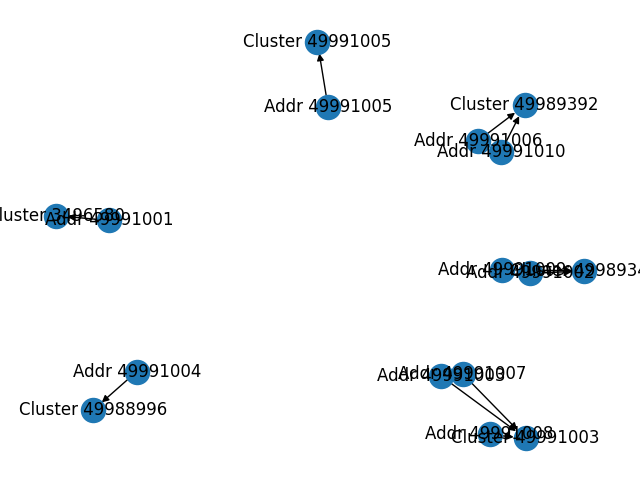
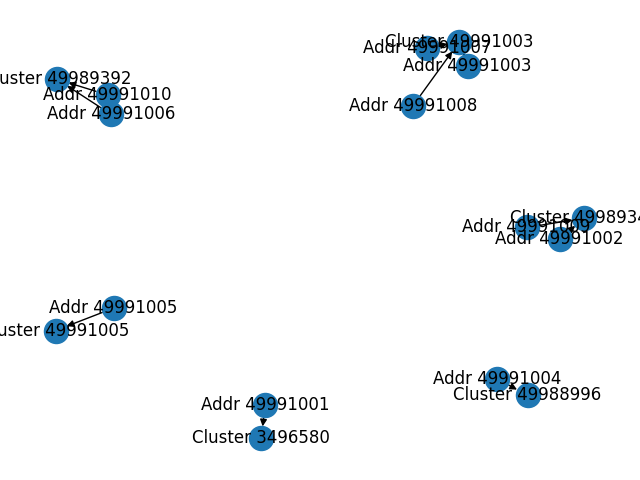
Addr -> Cluster 그래프 구축

diff --git a/sqllite/addrToCluster_dirGraph.py b/sqllite/addrToCluster_dirGraph.py
@@ -32,8 +32,6 @@ for row in clusterInfo:
 # addr -> cluster 방향성을 지닌 그래프 생성
 for element in node:
     dirGraph.add_node("Cluster " + str(node[element][0]))
-    for addr in node[element][1]:
-        dirGraph.add_node("Addr " + str(addr))
 
 for element in node:
     for addr in node[element][1]:
